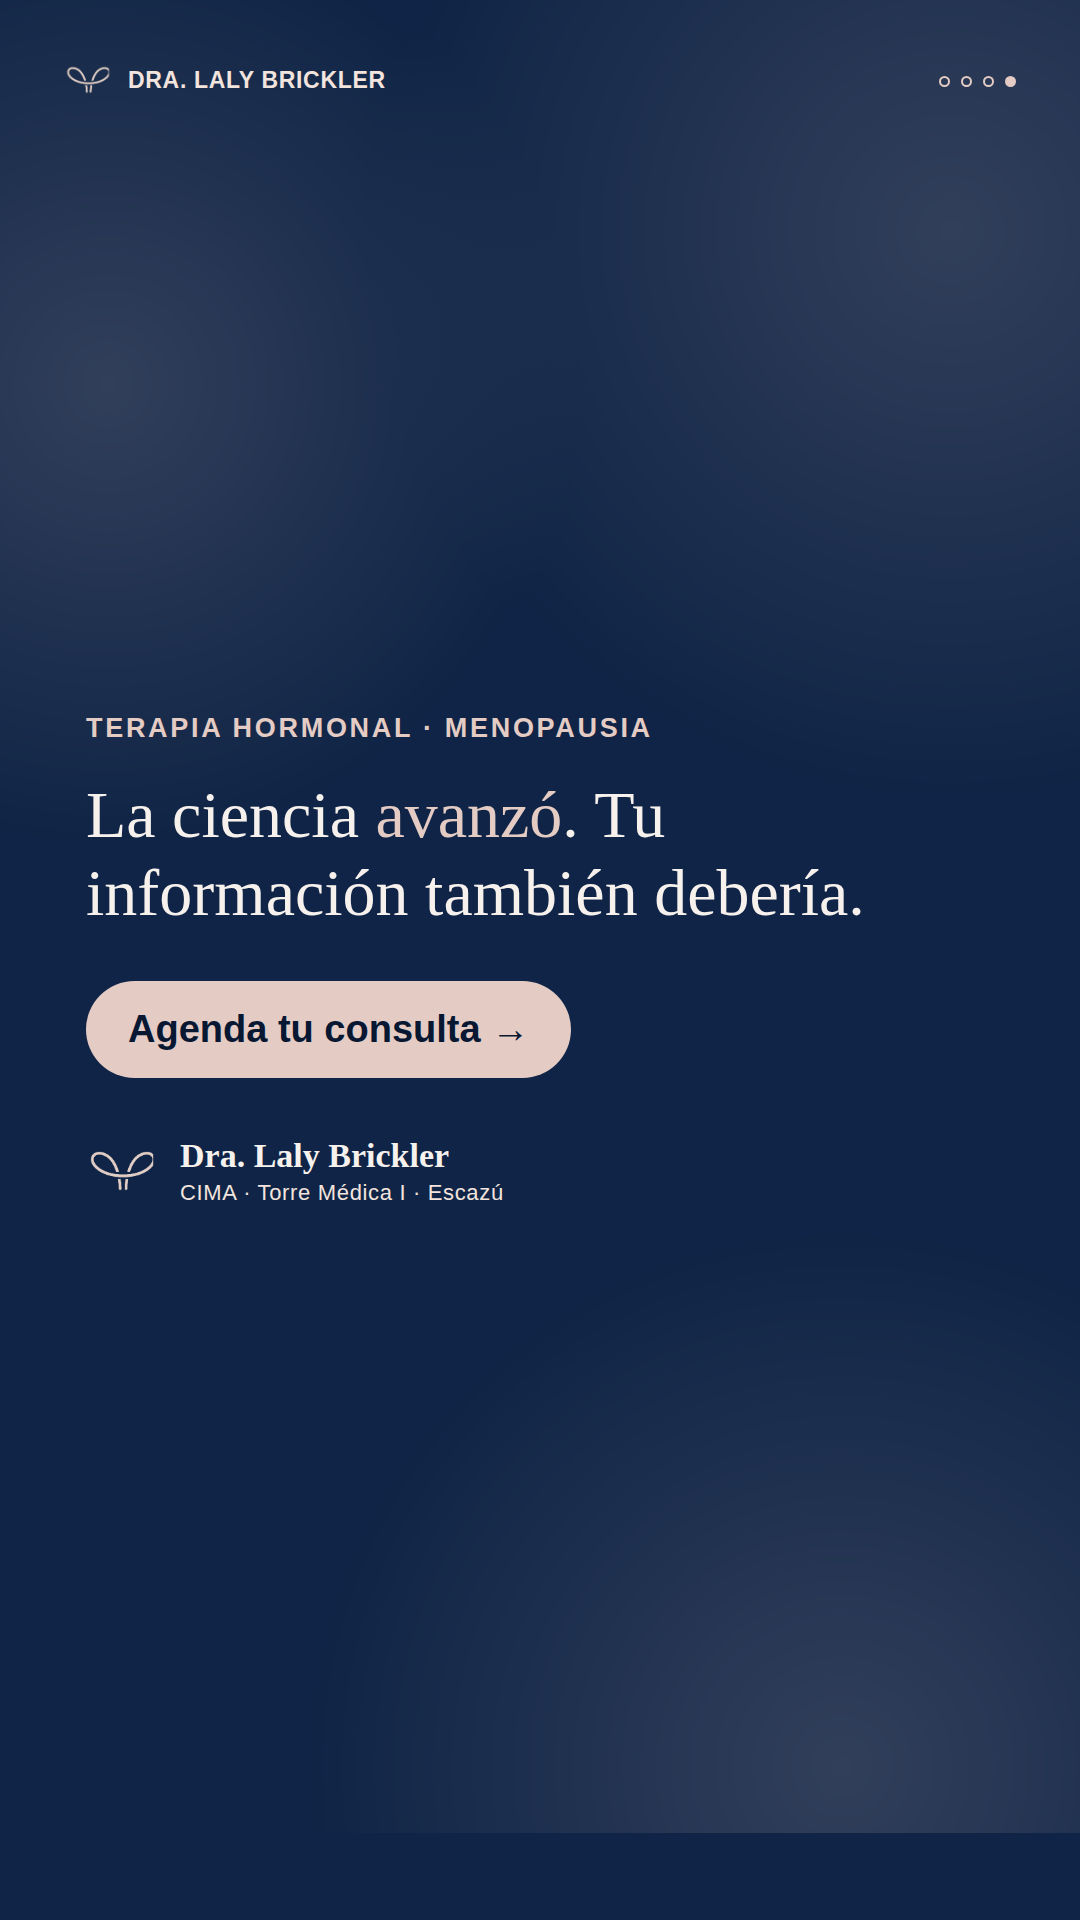
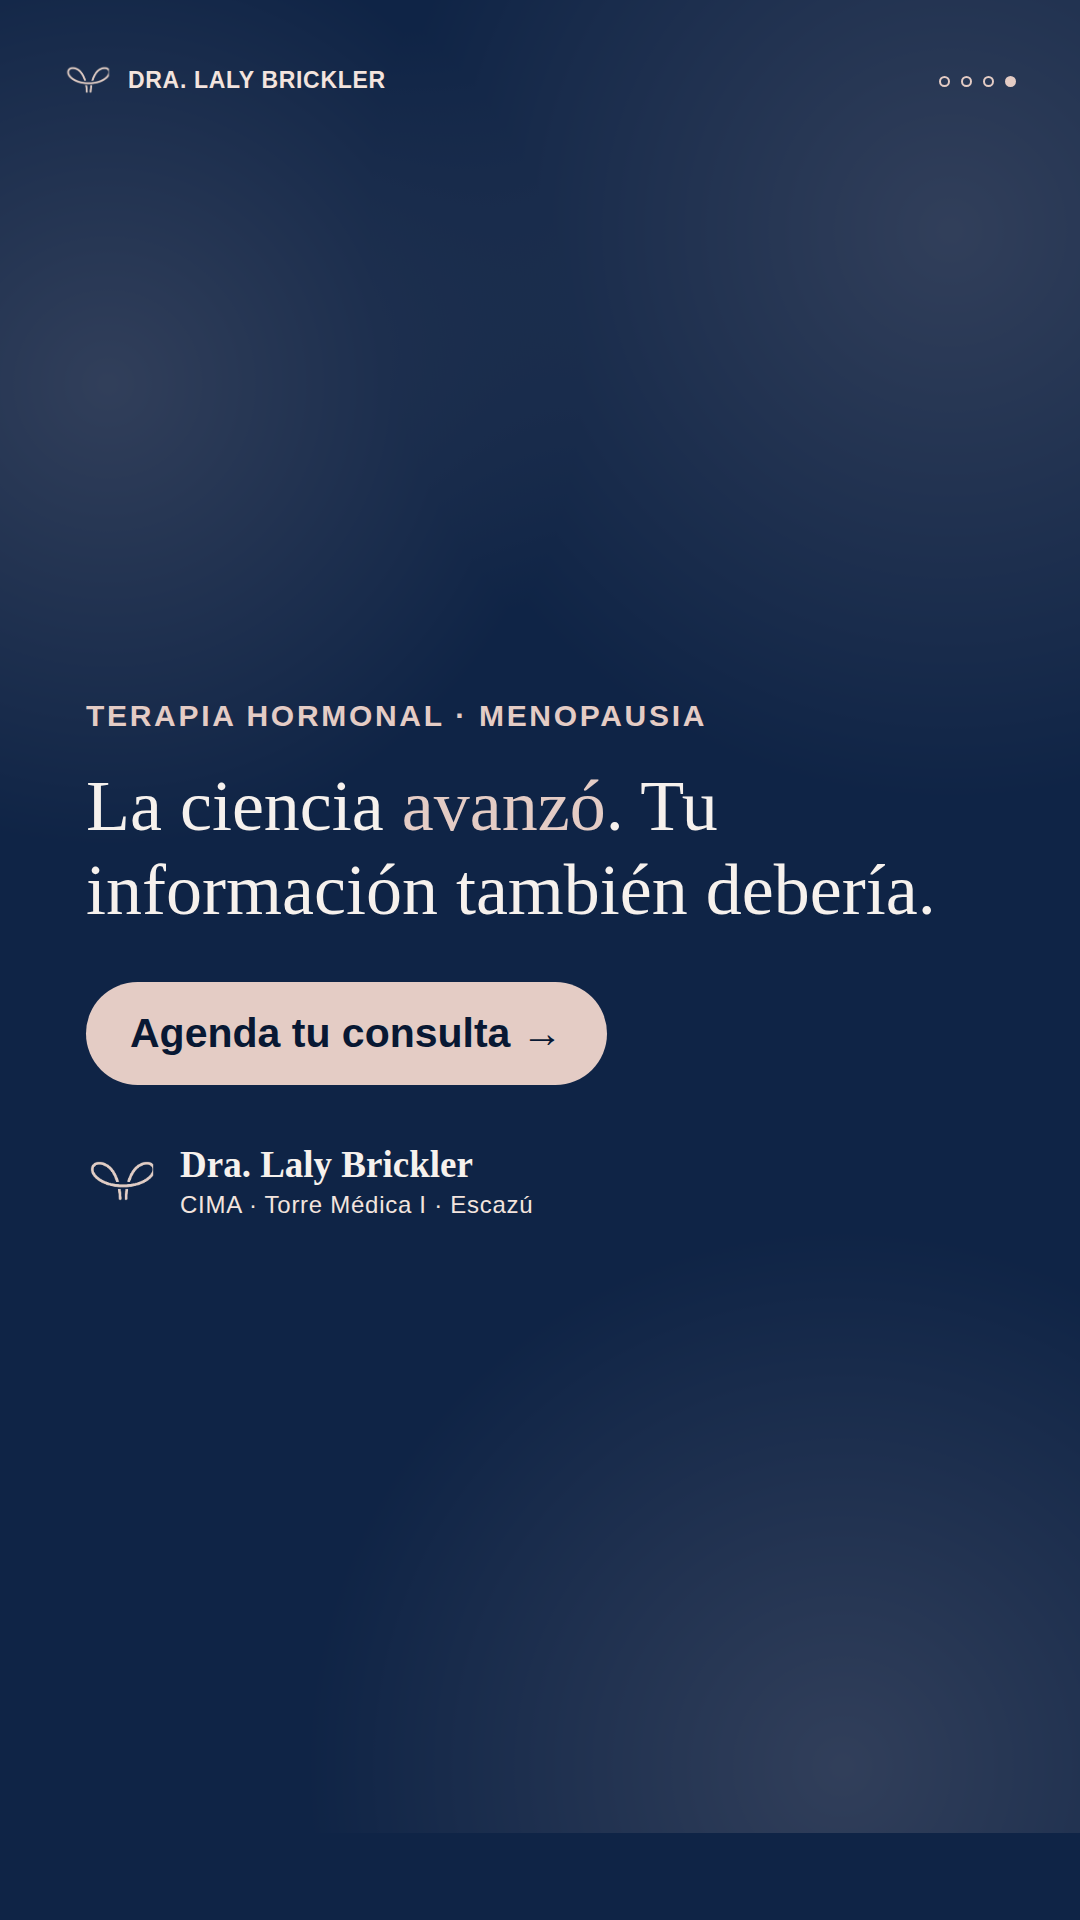
Add photo to menopause reel slide 1, enlarge type across all 4
Crop the supplied reference image down to just the three-women
photo (it had its own baked-in title/date text we don't want
duplicated), use it as a photo-top band on slide 1, and bump
font sizes on all 4 slides for easier reading.

Claude-Session: https://claude.ai/code/session_01LtTLwZrPZbyahK5aD18j7d

Changed region(s): [[0.0917, 0.3438, 0.8556, 0.5625], [0.0917, 0.5938, 0.4889, 0.6562]]

diff --git a/assets/export-menopausia/slide-1-hook.html b/assets/export-menopausia/slide-1-hook.html
@@ -6,28 +6,25 @@
 <style>
 *{box-sizing:border-box;margin:0;padding:0}
 html,body{width:1080px;height:1920px;overflow:hidden;background:#0F2446;font-family:'Work Sans',sans-serif}
-.frame{position:relative;width:1080px;height:1920px}
-.loop-field{position:absolute;inset:0;opacity:.17;background:
-  radial-gradient(circle at 14% 10%, #E4CCC5 0, transparent 30%),
-  radial-gradient(circle at 88% 16%, #E4CCC5 0, transparent 27%),
-  radial-gradient(circle at 22% 90%, #E4CCC5 0, transparent 28%);
-  pointer-events:none}
+.frame{position:relative;width:1080px;height:1920px;display:flex;flex-direction:column}
+.frame-photo-top{position:relative;flex:0 0 900px;background-image:url('foto1-crop.webp');background-size:cover;background-position:center 30%;z-index:0}
+.frame-photo-top::after{content:"";position:absolute;inset:0;background:linear-gradient(180deg, rgba(8,24,51,.5) 0%, rgba(8,24,51,0) 14%, rgba(15,36,70,0) 55%, #0F2446 100%)}
 .brand{position:absolute;top:64px;left:64px;display:flex;align-items:center;gap:16px;z-index:3}
 .brand img{width:48px;height:auto;display:block}
-.brand span{font-size:23px;color:#F3E4DE;letter-spacing:.03em;font-weight:600}
-.dots{position:absolute;top:76px;right:64px;display:flex;gap:11px;z-index:3}
-.dot{width:11px;height:11px;border-radius:50%;border:2px solid #E4CCC5}
+.brand span{font-size:25px;color:#F3E4DE;letter-spacing:.03em;font-weight:600}
+.dots{position:absolute;top:78px;right:64px;display:flex;gap:11px;z-index:3}
+.dot{width:12px;height:12px;border-radius:50%;border:2px solid #E4CCC5}
 .dot.on{background:#E4CCC5}
 
-.body{position:absolute;inset:0;display:flex;flex-direction:column;justify-content:center;align-items:center;padding:0 90px;text-align:center}
-.eyebrow{color:#E4CCC5;font-size:26px;letter-spacing:.09em;text-transform:uppercase;font-weight:700;margin-bottom:38px}
-.headline{font-family:'Fraunces',Georgia,serif;font-weight:600;color:#F6F1ED;font-size:80px;line-height:1.1;text-wrap:balance}
+.body{position:relative;flex:1;z-index:2;display:flex;flex-direction:column;justify-content:center;align-items:center;padding:0 80px 30px;text-align:center}
+.eyebrow{color:#E4CCC5;font-size:29px;letter-spacing:.08em;text-transform:uppercase;font-weight:700;margin-bottom:34px}
+.headline{font-family:'Fraunces',Georgia,serif;font-weight:600;color:#F6F1ED;font-size:76px;line-height:1.14;text-wrap:balance}
 .headline em{font-style:normal;color:#E4CCC5}
-.sub{margin-top:40px;font-size:30px;color:#F3E4DE;line-height:1.45;max-width:780px}
+.sub{margin-top:40px;font-size:34px;color:#F3E4DE;line-height:1.45;max-width:800px}
 </style></head>
 <body>
 <div class="frame">
-  <div class="loop-field"></div>
+  <div class="frame-photo-top"></div>
   <div class="brand"><img src="icon.png" alt=""><span>DRA. LALY BRICKLER</span></div>
   <div class="dots"><span class="dot on"></span><span class="dot"></span><span class="dot"></span><span class="dot"></span></div>
   <div class="body">

diff --git a/assets/export-menopausia/slide-4-cta.html b/assets/export-menopausia/slide-4-cta.html
@@ -20,15 +20,15 @@ html,body{width:1080px;height:1920px;overflow:hidden;background:#0F2446;font-fam
 .dot.on{background:#E4CCC5}
 
 .body{position:absolute;inset:0;display:flex;flex-direction:column;justify-content:center;padding:0 86px}
-.eyebrow{color:#E4CCC5;font-size:27px;letter-spacing:.1em;text-transform:uppercase;font-weight:700;margin-bottom:32px}
-.cta-head{font-family:'Fraunces',Georgia,serif;color:#F6F1ED;font-size:66px;line-height:1.18;font-weight:500;max-width:880px;text-wrap:balance;margin-bottom:50px}
+.eyebrow{color:#E4CCC5;font-size:30px;letter-spacing:.09em;text-transform:uppercase;font-weight:700;margin-bottom:32px}
+.cta-head{font-family:'Fraunces',Georgia,serif;color:#F6F1ED;font-size:72px;line-height:1.16;font-weight:500;max-width:900px;text-wrap:balance;margin-bottom:50px}
 .cta-head em{font-style:normal;color:#E4CCC5}
-.cta-pill{display:inline-flex;align-items:center;gap:16px;background:#E4CCC5;color:#081833;font-weight:700;font-size:38px;padding:27px 42px;border-radius:999px;width:fit-content}
+.cta-pill{display:inline-flex;align-items:center;gap:16px;background:#E4CCC5;color:#081833;font-weight:700;font-size:41px;padding:28px 44px;border-radius:999px;width:fit-content}
 .cta-logo{display:flex;align-items:center;gap:22px;margin-top:56px}
 .cta-logo img{width:72px;height:auto;display:block}
 .cta-logo .ln{display:flex;flex-direction:column;line-height:1.3}
-.cta-logo .ln b{font-family:'Fraunces',Georgia,serif;color:#F6F1ED;font-size:34px;font-weight:600}
-.cta-logo .ln small{color:#F3E4DE;font-size:22px;letter-spacing:.03em}
+.cta-logo .ln b{font-family:'Fraunces',Georgia,serif;color:#F6F1ED;font-size:37px;font-weight:600}
+.cta-logo .ln small{color:#F3E4DE;font-size:24px;letter-spacing:.03em}
 </style></head>
 <body>
 <div class="frame">

diff --git a/assets/export-menopausia/slide-3-noticia.html b/assets/export-menopausia/slide-3-noticia.html
@@ -19,13 +19,13 @@ html,body{width:1080px;height:1920px;overflow:hidden;background:#0F2446;font-fam
 .dot.on{background:#E4CCC5}
 
 .body{position:absolute;inset:0;display:flex;flex-direction:column;justify-content:center;align-items:center;padding:0 90px;text-align:center}
-.eyebrow{color:#E4CCC5;font-size:26px;letter-spacing:.09em;text-transform:uppercase;font-weight:700;margin-bottom:24px}
-.year{font-family:'Fraunces',Georgia,serif;font-weight:600;color:#F6F1ED;font-size:76px;line-height:1;margin-bottom:34px}
+.eyebrow{color:#E4CCC5;font-size:30px;letter-spacing:.08em;text-transform:uppercase;font-weight:700;margin-bottom:26px}
+.year{font-family:'Fraunces',Georgia,serif;font-weight:600;color:#F6F1ED;font-size:84px;line-height:1;margin-bottom:34px}
 .year em{font-style:normal;color:#E4CCC5}
-.headline{font-family:'Fraunces',Georgia,serif;font-weight:600;color:#F6F1ED;font-size:58px;line-height:1.22;max-width:820px;text-wrap:balance;margin-bottom:36px}
-.sub{font-size:30px;color:#F3E4DE;line-height:1.5;max-width:800px}
+.headline{font-family:'Fraunces',Georgia,serif;font-weight:600;color:#F6F1ED;font-size:64px;line-height:1.2;max-width:840px;text-wrap:balance;margin-bottom:36px}
+.sub{font-size:33px;color:#F3E4DE;line-height:1.5;max-width:820px}
 .sub b{color:#E4CCC5;font-weight:600}
-.caveat{margin-top:34px;padding-top:30px;border-top:1px solid rgba(228,204,197,.3);font-size:23px;color:#E4CCC5;line-height:1.5;max-width:760px}
+.caveat{margin-top:32px;padding-top:28px;border-top:1px solid rgba(228,204,197,.3);font-size:26px;color:#E4CCC5;line-height:1.5;max-width:780px}
 </style></head>
 <body>
 <div class="frame">

diff --git a/assets/export-menopausia/slide-2-contexto.html b/assets/export-menopausia/slide-2-contexto.html
@@ -19,10 +19,10 @@ html,body{width:1080px;height:1920px;overflow:hidden;background:#0F2446;font-fam
 .dot.on{background:#E4CCC5}
 
 .body{position:absolute;inset:0;display:flex;flex-direction:column;justify-content:center;align-items:center;padding:0 90px;text-align:center}
-.eyebrow{color:#E4CCC5;font-size:26px;letter-spacing:.09em;text-transform:uppercase;font-weight:700;margin-bottom:24px}
-.year{font-family:'Fraunces',Georgia,serif;font-weight:600;color:#E4CCC5;font-size:220px;line-height:1;margin-bottom:28px}
-.headline{font-family:'Fraunces',Georgia,serif;font-weight:500;color:#F6F1ED;font-size:50px;line-height:1.3;max-width:800px;text-wrap:balance;margin-bottom:34px}
-.sub{font-size:30px;color:#F3E4DE;line-height:1.5;max-width:780px}
+.eyebrow{color:#E4CCC5;font-size:30px;letter-spacing:.08em;text-transform:uppercase;font-weight:700;margin-bottom:26px}
+.year{font-family:'Fraunces',Georgia,serif;font-weight:600;color:#E4CCC5;font-size:210px;line-height:1;margin-bottom:30px}
+.headline{font-family:'Fraunces',Georgia,serif;font-weight:500;color:#F6F1ED;font-size:58px;line-height:1.28;max-width:820px;text-wrap:balance;margin-bottom:36px}
+.sub{font-size:34px;color:#F3E4DE;line-height:1.5;max-width:800px}
 </style></head>
 <body>
 <div class="frame">
